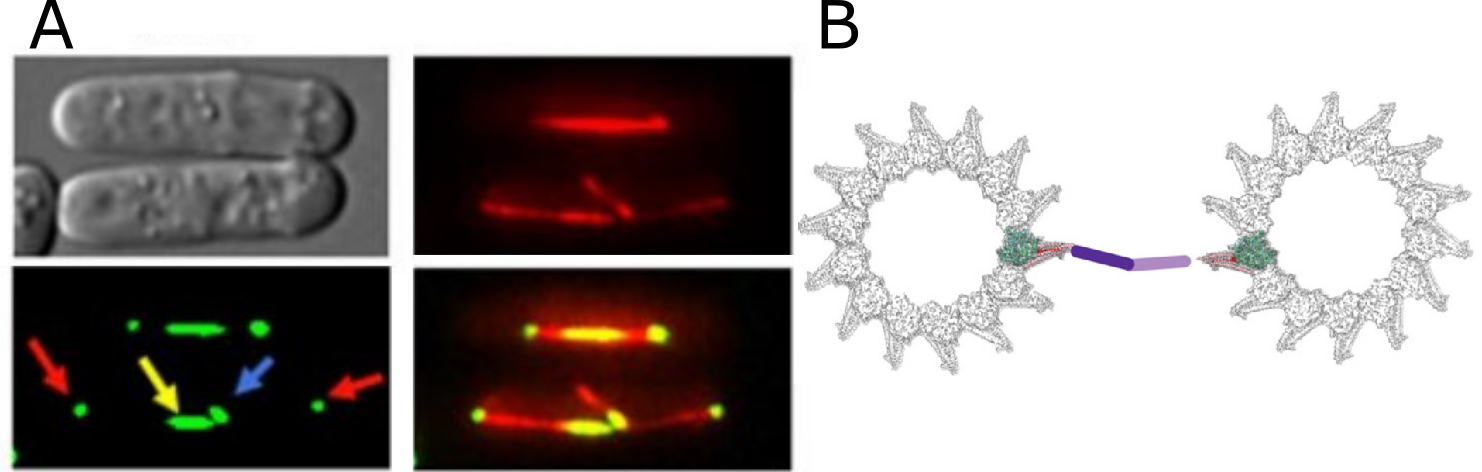
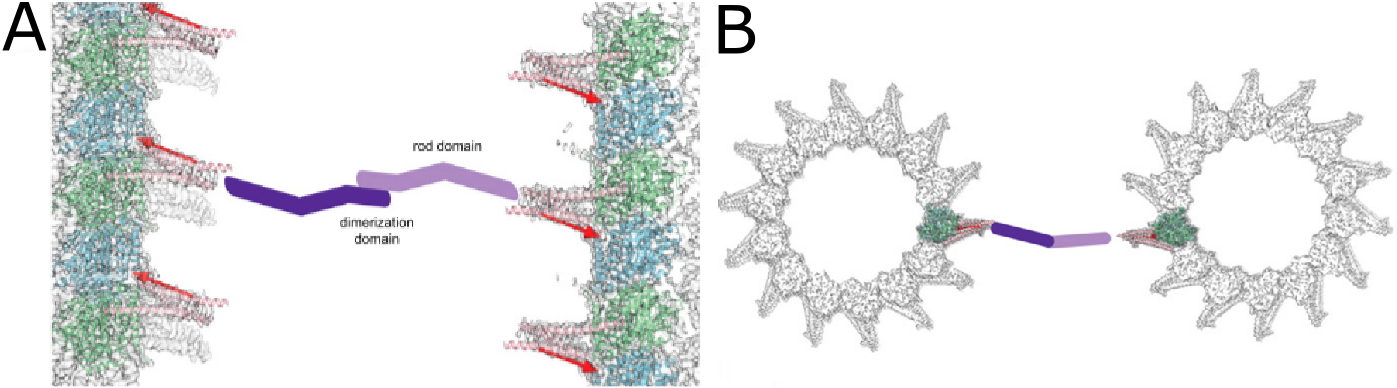
finished ase1 and spindle

diff --git a/Content/background.tex b/Content/background.tex
@@ -1,6 +1,6 @@
 \chapter{Background}
 The biologist Carl Woese suggested that “Organisms are resilient patterns in a turbulent flow—patterns in an energy flow” \parencite{Woese}. If this somewhat captures life, then the formation and maintenance of patterns are essential. On the sub-cellular level, an important component conferring structure and organization is the cytoskeleton. The cytoskeleton is a complex, dynamic network of protein filaments which can be found in the cytoplasm of all cells, including bacteria and archaea. Eukaryotes employ three different types of filaments: microtubules, actin filaments and intermediate filaments. These filaments interact interact with a plethora of other biopolymers in the cell, allowing the cytoskeleton to fulfill vital functions in a diverse set of domains, such as locomotion of the cell, maintaining structural integrity, chromosome segregation and cytokinesis during mitosis and the transport of cargoes within the cell. The cytoskeleton confers structure to the cell, but what confers structure to the cytoskeleton itself? While some of the patterning stems from interactions with other large entities, such as the cell membrane, the organization of the cytoskeleton partly emerges from the collective behavior of the involved cytoskeletal polymers. In other words, the cytoskeleton and its associates are known to display self-organization \parencite{Karsenti2008}. This work aims to expand our understanding of how, and to which extent, cytoskeletal polymers interact to give rise to supramolecular patterning. \par
-To minimize the number of factors which could possibly give rise to patterns such to reveal underlying molecular mechanisms, we followed a bottom-up approach, where we sought to reconstitute cytoskeletal features \textit{in-vitro} with a minimum number of components. We focused on microtubules, where we were interested in two cytoskeletal systems of which they are prominent members: (1) Neuronal microtubule arrays and (2) the mitotic spindle. These two systems are very different, which is also reflected by the different behavior of microtubules within them. Thus, this thesis contains two parts, each dedicated to one of these systems. As in both systems, microtubules are an integral part of the experimental setup, I here offer an introduction to them. I here also give a brief introduction to the microtubule-associated proteins explored in the experiments.
+To minimize the number of factors which could possibly give rise to patterns such to reveal underlying molecular mechanisms, we followed a bottom-up approach, where we sought to reconstitute cytoskeletal features \textit{in-vitro} with a minimum number of components. We focused on microtubules, where we were interested in two cytoskeletal systems of which they are prominent members: (1) Axonal microtubule systems and (2) the mitotic spindle. These two systems are very different, which is also reflected by the different behavior of microtubules within them. Thus, this thesis contains two parts, each dedicated to one of these systems. As in both systems, microtubules are an integral part of the experimental setup, I here offer an introduction to them. I here also give a brief introduction to the microtubule-associated proteins explored in the experiments.
 
 \section{Microtubules}
 A prominent characteristic of microtubules is their very high persistence length in the low millimeter range \parencite{Portran2013}, which allows them to stretch over distances comparable to the size of a whole cell. The microtubule lattice can be described as a lateral association of so-called protofilaments, which are linear strands of $\alpha$- and $\beta$-tubulin heterodimers (\autoref{MTintro}A). This leads to the cylindrical structure of microtubules with an outer diameter of 25 nm (\autoref{MTintro}B), a feature allowing for their high persistence length. Only at high concentrations of free tubulin spontaneous nucleation can occur \parencite{Fygenson1994}, which gives the cell the ability to fine-tune the number of microtubules over time and space: The \textit{de novo} assembly of microtubules is directed by designated $\gamma$-tubulin \textit{nucleation} complexes prominent in microtubule-organizing centers (MTOCs) and also along pre-existing microtubules \parencite{Guttinger2009, Janson2007}. \par
@@ -16,7 +16,7 @@ In spite of their high stiffness, microtubules are no static structures, instead
 
 \begin{figure}[h!tb]
 \centering
-\includegraphics[scale=0.65]{Figures/MTintro.png}
+\includegraphics[width=\linewidth]{Figures/MTintro.png}
 \caption[Introduction to microtubules.]{\textbf{Introduction to microtubules.}
 (A) Microtubules consist of $\alpha\beta$ heterodimers. While $\alpha$-tubulin normally retains its GTP, the GTP molecule of $\beta$-tubulin can be both hydrolyzed and exchanged for ADP. (B) \textit{In vivo}, microtubules are composed of 13 protofilaments. Since the \SI{12}{\nm} helical pitch does not equal the dimer length, a lattice seam occurs. (C) Due to the GTP-hydrolysis of incorporated $\beta$-tubulin, microtubule ends undergo a permanent cycle of growth (1) and shrinkage (3), closed by the exchange of GDP for GTP for the disassembly products (4). This cycle can briefly come to a halt during a less prevalent metastable state (2), from which microtubules can switch either to growth or to shrinkage. All sketches adapted from \cite{Akhmanova2008}.
 	}\label{MTintro}
@@ -29,14 +29,15 @@ The vast functional diversity of microtubules is enabled by their interactions w
 
 \subsection{Ase1}
 \label{sec:Ase1_intro}
-The fission yeast Schizosaccharomyces pombe (S. pombe) serves as a simple model cell for studying microtubule dynamics and organization. These cells exhibit two types of structures that contain bundles of stable overlapping antiparallel microtubules, namely the interphase microtubules bundles and the mitotic spindle. Ase1, a conserved microtubule-bundling protein with orthologues e.g. in plants (MAP65) and mammals (PRC1), is an important factor for assembly and maintenance of these overlapping microtubules arrays \parencite{Loiodice2005,Yamashita2005} (\autoref{Ase1}A).\par
-Characteristically, the geometry of Ase1 favors antiparallel microtubule arrays, which results in increased Ase1/MAP65/PRC1 affinities for antiparallel microtubule overlaps and preferential antiparallel crosslinking activity \parencite{She2019,Bieling2010,Janson2007,Subramanian2010,Kellogg2016,Gaillard2008}. During mitosis, Ase1/MAP65/PRC1 proteins are found preferentially at the spindle midzone, and are involved in spindle integrity and regulation of spindle elongation \parencite{Loiodice2005,Yamashita2005,She2019}. S. pombe Ase1 deletion mutants, although viable, exhibit interphase microtubules with reduced bundling and mitotic spindles that often fall apart as they elongate in anaphase \parencite{Loiodice2005,Yamashita2005}. The preferred binding of Ase1/MAP65/PRC1 family proteins to antiparallel microtubules leads to the recruitment of other proteins at the midzone that can locally alter microtubule dynamics, such as CLASP \parencite{Bratman2007b,Liu2009,Kitazawa2014} or kinesin-4 \parencite{Bieling2010, Mani2021}. By recruiting these additional factors, Ase1 family proteins can differentially regulate the dynamics of bundled microtubules, specifically affecting the dynamics of antiparallel bundles \parencite{Bieling2010,Bratman2007b, Mani2021}. Additionally, Ase1 family members themselves are also known to have direct effects on microtubule dynamics. In vitro experiments have shown that MAP65-1, upon crosslinking microtubules, promotes rescues \parencite{Stoppin-Mellet2013}. Based on the modeling of their observed overlap dynamics, \cite{Stoppin-Mellet2013} predicted MAP65-1 to have more effect on antiparallel microtubules compared to parallel ones. However, this prediction has not yet been directly experimentally validated.\par
-Ase1 possesses a structured N-terminal domain, a central spectrin domain, and an intrinsically disordered C-terminal domain \parencite{Kapitein2008,Kellogg2018}. Ase1 self-associate into homodimers. The N-terminal domain supports this homodimerization and is necessary for microtubule crosslinking activity \parencite{Janson2007}. The spectrin domain and the unstructured C-terminal interact with the microtubule \parencite{Kellogg2018}. Ase1 interacts with microtubules diffusively by exhibiting a one-dimensional random walk along the microtubule lattice. When diffusing on a single microtubule, the free microtubule-binding domain samples a large space, allowing for "catching" of another microtubule which subsequently is crosslinked to the first microtubule, preferably in antiparallel fashion (\cite{Janson2007}, \autoref{Ase1}B). Within the resulting antiparallel microtubule bundle, Ase1 does still diffuse, albeit with an approximately eight-times lower diffusion coefficient than on single microtubules \parencite{lanskydiffusible2015}.
+The fission yeast Schizosaccharomyces pombe (S. pombe) serves as a simple model cell for studying microtubule dynamics and organization. These cells exhibit two types of structures that contain bundles of stable overlapping antiparallel microtubules, namely the interphase microtubule bundles and the mitotic spindle. Ase1, a conserved microtubule-bundling protein with orthologues e.g. in plants (MAP65) and mammals (PRC1), is an important factor for assembly and maintenance of these overlapping microtubules arrays \parencite{Loiodice2005,Yamashita2005} (\autoref{sec:spindle}).\par
+Characteristically, the geometry of Ase1 favors antiparallel microtubule arrays, which results in increased Ase1/MAP65/PRC1 affinities for antiparallel microtubule overlaps and preferential antiparallel crosslinking activity \parencite{She2019,Bieling2010,Janson2007,Subramanian2010,Kellogg2016,Gaillard2008}. The preferred binding of Ase1/MAP65/PRC1 family proteins to antiparallel microtubules leads to the recruitment of other proteins that can locally alter microtubule dynamics, such as CLASP \parencite{Bratman2007b,Liu2009,Kitazawa2014} or kinesin-4 \parencite{Bieling2010, Mani2021}. By recruiting these additional factors, Ase1 family proteins can differentially regulate the dynamics of bundled microtubules, specifically affecting the dynamics of antiparallel bundles \parencite{Bieling2010,Bratman2007b, Mani2021}. Additionally, Ase1 family members themselves are also known to have direct effects on microtubule dynamics. In vitro experiments have shown that MAP65-1, upon crosslinking microtubules, promotes rescues \parencite{Stoppin-Mellet2013}. Based on the modeling of their observed overlap dynamics, \cite{Stoppin-Mellet2013} predicted MAP65-1 to have more effect on antiparallel microtubules compared to parallel ones. However, this prediction has not yet been directly experimentally validated.\par
+Ase1 possesses a structured N-terminal domain, a central spectrin domain, and an intrinsically disordered C-terminal domain \parencite{Kapitein2008,Kellogg2016}. Ase1 molecules self-associate into homodimers. The N-terminal domain supports this homodimerization and is necessary for microtubule crosslinking activity \parencite{Janson2007}. The spectrin domain and the unstructured C-terminal interact with the microtubule \parencite{Kellogg2016}. Ase1 interacts with microtubules diffusively by exhibiting a one-dimensional random walk along the microtubule lattice. When diffusing on a single microtubule, the free microtubule-binding domain samples a large space, allowing for "catching" of another microtubule which subsequently is crosslinked to the first microtubule, preferably in antiparallel fashion (\cite{Janson2007}, \autoref{Ase1}). Within the resulting antiparallel microtubule bundle, Ase1 does still diffuse, albeit with an approximately eight-times lower diffusion coefficient than on single microtubules \parencite{lanskydiffusible2015}.\par
+As another feature of Ase1, it has been found that microtubules decorated with Ase1 are less stiff than undecorated microtubules \parencite{Portran2013}.
 \begin{figure}[h!tb]
 \centering
-\includegraphics[scale=1.1]{Figures/Ase1.png}
+\includegraphics[width=\linewidth]{Figures/Ase1.png}
 \caption[Introduction to Ase1.]{
-\textbf{Introduction to Ase1.} (A) 3D projection images of wild-type S. pombe cells taken during mitosis, with tubulin (CFP-tub1p) in red and Ase1 (Ase1-GFP) in green. Top-left picture taken with differential interference contrast (DIC) microscopy. The yellow arrow indicates the spindle midzone, where Ase1 is binding in between antiparallel microtubule overlaps. Adopted from \cite{Loiodice2005}. (B) A model of how PRC1, a Ase1 homologue, binds to two antiparallely aligned microtubules, based on cryo-EM data. The cryo-EM reconstruction is overlayed with shades of green and blue ($\alpha$ and $\beta$-tubulin) and pink (the microtubule-binding domains of PRC1). The dimerization domains of PRC1 are shown as cartoons in shades of purple (the cryo-EM study was conducted with a PRC1 construct without the dimerization domain). Adopted from \cite{Kellogg2016}. 
+\textbf{Introduction to Ase1.} A model of how PRC1, a Ase1 homologue, binds to two antiparallely aligned microtubules, based on cryo-EM data. The cryo-EM reconstruction is overlayed with shades of green and blue ($\alpha$ and $\beta$-tubulin) and pink (the spectrin domain, the microtubule-binding domain of PRC1 and Ase1). The dimerization domains of PRC1 are shown as cartoons in shades of purple (the cryo-EM study was conducted with a PRC1 construct without the dimerization domain). Adopted from \cite{Kellogg2016}. (A) View from side. (B) Cross section view (from bottom of what panel A shows). 
 	}\label{Ase1}
 \end{figure}
 
@@ -45,7 +46,7 @@ Tau is an intrinsically disordered protein mainly found in neurons. An important
 As depicted in \autoref{tau}A, full-length adult tau is intrinsically disordered and includes a projection domain, a microtubule-binding region of four imperfect sequence repeats (R1-4), and a C-terminal domain \parencite{Himmler1381}. Several different observations and explanations for how tau interacts with microtubules can be found in the literature \parencite{Morris2011b,Mcvicker2014,Kellogg2018}. For instance, it is known that tau can engage with microtubules in a mode where it diffuses along the microtubule \parencite{Hinrichs2012b}, and in another mode where it is stably bound to the microtubule \parencite{Mcvicker2014}. Recently, it was found that the tau microtubule binding repeats can bind to microtubules in a consistent, orderly fashion, enough so to allow for a high-resolution cryo-EM study (\autoref{tau}B-C) \parencite{Kellogg2018}. 
 \begin{figure}[h!tb]
 \centering
-\includegraphics[scale=0.93]{Figures/tau.png}
+\includegraphics[width=\linewidth]{Figures/tau.png}
 \caption[Introduction to tau.]{\textbf{Introduction to tau.}
 (A) Schematic of tau domain architecture. Inset shows the sequence alignment of the four repeat sequences, R1-4, that make up the repeat domain. (B) Model of full-length tau binding to microtubules and tubulin oligomers proposed by a recent cryo-EM study \parencite{Kellogg2018}. (C) Detailed representation of that model. (D) Cryo-EM density map of a part of the microtubule surface under the presence of tau, as observed by \cite{Kellogg2018} (top view, looking onto the surface of the microtubule). The additional density (in addition to tubulin) is colored in red and likely due to tau binding to the microtubule with its microtubule binding repeats. The PGGG sequences between the repeats were not visible on the density map, indicating that they did not bind to the microtubules in an orderly fashion. Adapted from \cite{Kellogg2018}. 
 	}\label{tau}
@@ -86,11 +87,11 @@ In addition to it's severing activity, Katanin also promotes depolymerization of
 \end{figure}
 
 \section{Microtubule systems}
-Microtubules behave differently and fulfill different functions depending on the cellular context they are in. The two systems where I with this thesis aim to contribute understanding to are neuronal microtubule arrays (with a focus on tau, katanin, and kinesin-8) and the mitotic spindle (with a focus on Ase1).
+Microtubules behave differently and fulfill different functions depending on the cellular context they are in. The two systems where I with this thesis aim to contribute understanding to are axonal microtubule systems (with a focus on tau, katanin, and kinesin-8) and the mitotic spindle (with a focus on Ase1).
 
-\subsection{Neuronal microtubule arrays}
+\subsection{Axonal microtubule systems}
 \label{sec:neuron}
-The complex development and functionality of the nervous system rely heavily on microtubule-related processes, as microtubules play key roles in guiding cellular organization and intracellular transport \parencite{Kapitein2015}. Prominently, neurons develop two types of cytoplasmic protrusions: (i) Axons (also called nerve fibers) and (ii) dendrites. A typical neuron has one axon, which can reach to distant parts within the animal's body, and multiple dendrites, which are shorter, and connected to axons via synapses. While axons primarily contain long, stable microtubules, dendrites harbor shorter, more dynamic microtubules \parencite{Tas2017}. \par
+The complex development and functionality of the nervous system rely heavily on microtubule-related processes, as microtubules play key roles in guiding cellular organization and intracellular transport \parencite{Kapitein2015}. Prominently, neurons develop two types of cytoplasmic protrusions: (i) Axons (also called nerve fibers) and (ii) dendrites. A typical neuron has one axon, which can reach to distant parts within the animal's body, and multiple dendrites, which are shorter, and connected to axons via synapses. While axons primarily contain long, stable microtubules, dendrites harbor shorter, more dynamic microtubules \parencite{Tas2017}. To understand their cellular context, it is instructive to introduce axonal microtubule arrays vis-a-vis dendritic microtubule arrays.\par
 
 Regarding intracellular transport, microtubules prominently serve as highways for molecular motors, most prominently kinesins, but also dyneins which are minus-end directed motors \parencite{Kapitein2015}. Efficient directional transport is especially crucial in neurons, given that dendrites and especially axons grow to macroscopic lengths. It is thus not surprising that within axons, microtubules bundle and point toward the same direction, namely with their plus ends away from the cell body (the soma) toward the distal end of the axon \parencite{Tas2017}. Such an alignment lends itself to efficient transport of cargo between these distant parts of the cell, as a given motor cannot accidentally switch to an antiparallely aligned microtubule and travel in the opposite direction than previously. At the same time, within mammalian dendrites, there are both inward- and outwardpointing microtubules in equal parts \parencite{Tas2017}. Here, sufficiently effective transport is achieved by bundling microtubules such that a given bundle in a given dendrite predominantly comprises microtubules of the same orientation \parencite{Tas2017}. Notably, and puzzingly, despite the existence of plus-end-outward microtubules in dendrites, many plus-end directed motors, including kinesin-8, only enter the axon \parencite{Lipka2016}.\par
 
@@ -106,9 +107,24 @@ Regarding the guiding of cellular organization, the remodeling of microtubule ar
 
 Within the neuron, tau is mostly found in the axonal shaft, i.e. the most stable part of the neuronal microtubule architecture (\autoref{neuron}A). Given the importance of microtubules, and given that tau protects microtubules, it is not surprising that malfunctions related to tau have been implicated in a number of neurodegenerative diseases \parencite{Gao2018,Morris2011b,iqbal2016tau}. For example, displacement of tau from the axon is one of the hallmark events during the onset of the Alzheimer’s disease \parencite{zempel2015tau}. In one discovered mechanism, tau mislocalization leaves axonal microtubules unprotected against microtubule-severing enzymes, such as katanin, which leads to their destabilization and the eventual degeneration of the axon (\autoref{neuron}B) \parencite{Qiang2006}. \par
 
-Tau can also regulate the microtubule interactions of kinesin-1 and dynein \parencite{Chaudhary2018,Dixit2008,ebneth1998overexpression,seitz2002single,trinczek1999tau,vershinin2007multiple}. However, before our study, it was unknown how tau might interact with kinesin-8. In zebrafish neurons, depleting Kif18A, a kinesin-8 member, has been found to increase mirotubule catastrophe frequency and reduce axon length \parencite{KEVENAAR2016849}.  
+Tau can also regulate the microtubule interactions of the molecular motors kinesin-1 and dynein \parencite{Chaudhary2018,Dixit2008,ebneth1998overexpression,seitz2002single,trinczek1999tau,vershinin2007multiple}. However, before our study, it was unknown how tau might interact with kinesin-8. Our knowledge about kinesin-8 in neurons generally is scarce. It certainly does play an important role: A study has found that depleting Kif18A, a kinesin-8 member, increases mirotubule catastrophe frequency and reduce axon length \parencite{KEVENAAR2016849}.  
 
 \subsection{Mitotic spindle}
+\label{sec:spindle}
+We were interested in the (potential) role of microtubule crosslinkers in building and maintaining the mitotic spindle, where we worked with the fission yeast S. pombe protein Ase1 (see \autoref{sec:Ase1_intro}). S. pombe is a popular eukaryotic model organism for studying the cell cycle including the mitotic spindle \parencite{Vyas2021, Uzsoy2021}, in part due to its relatively low complexity, as evidenced by its small number of protein-coding genes \parencite{Wood2002}. Other than in animal cells, where the mitotic spindle is established in the cytoplasm, the mitotic spindle of S. pombe forms inside the nucleous. As in animals cells, the mitotic spindle allows the cell to separate its two chromosome sets (each containing the DNA for each forthcoming dauther cell) (\autoref{spindle}A). \par
+
+During mitosis, Ase1 proteins (or its orthologues in other organisms) are found preferentially at the spindle midzone (\autoref{spindle}B), and are involved in spindle integrity and regulation of spindle elongation \parencite{Loiodice2005,Yamashita2005,She2019}. S. pombe Ase1 deletion mutants, although viable, exhibit interphase microtubules with reduced bundling and mitotic spindles that often fall apart as they elongate in anaphase \parencite{Loiodice2005,Yamashita2005}.
+
+\begin{figure}[h!tb]
+	\centering
+	\includegraphics[width=\linewidth]{Figures/spindle.png}
+	\caption[Microtubule crosslinkers in the context of the mitotic spindle.]{\textbf{Microtubule crosslinkers in the context of the mitotic spindle.}
+	(A) An illustration of the mitotic spindle in animal cells (S. pombe features spindle pole bodies instead of centrosomes, and therefore no astral microtubules). The polar microtubules grow from the centrosome, overlapping in an antiparallel fashion in the middle of the nucleous. There, they are crosslinked by passive crosslinkers such as Ase1, but also motor proteins which together with passive crosslinkers contribute to a proper positioning of the mitotic spindle \parencite{Janson2007,Braun2011}. Adapted from \cite{Tolic2018}. The kinetochore microtubules separate the chromosomes from each other and pull them toward the centrosomes (in the next phase of mitosis not shown here). (B) 3D projection images of wild-type S. pombe cells taken during mitosis, with tubulin (CFP-tub1p) in red and Ase1 (Ase1-GFP) in green. Top-left picture taken with differential interference contrast (DIC) microscopy. The yellow arrow indicates the spindle midzone, where Ase1 is binding in between antiparallel microtubule overlaps. Adopted from \cite{Loiodice2005}.
+		}\label{spindle}
+\end{figure}
+
+
+
 
 \section{Employed microscopy methods}
 \label{sec:microscopy}
